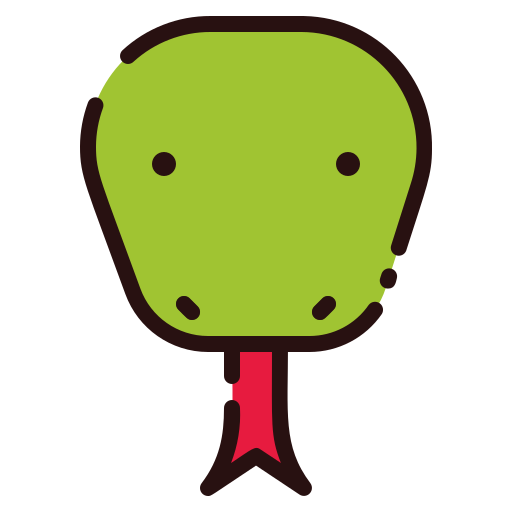
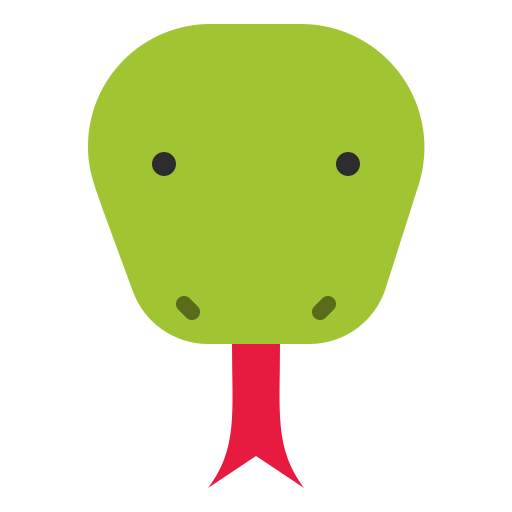
Add Body

diff --git a/index.js b/index.js
@@ -68,18 +68,21 @@ function drawHead(ctx, x, y) {
     img.onload = function() {
       ctx.drawImage(img, x * CELL_SIZE, y * CELL_SIZE, CELL_SIZE, CELL_SIZE);
     };
-    img.src = 'head.jpg';
+    img.src = 'snake.jpg';
 }
 
+function drawBody(ctx, x, y) {
+    var img = new Image();
+    img.onload = function() {
+      ctx.drawImage(img, x * CELL_SIZE, y * CELL_SIZE, CELL_SIZE, CELL_SIZE);
+    };
+    img.src = 'body.jpg';
+}
 
 function drawScore(snake) {
     let scoreCanvas;
     if (snake.color == snake1.color) {
         scoreCanvas = document.getElementById("score1Board");
-    } else if (snake.color == snake2.color) {
-        scoreCanvas = document.getElementById("score2Board");
-    } else {
-        scoreCanvas = document.getElementById("score3Board");
     }
     let scoreCtx = scoreCanvas.getContext("2d");
 
@@ -100,20 +103,10 @@ function draw() {
         for (let i = 1; i < snake1.body.length; i++) {
             drawCell(ctx, snake1.body[i].x, snake1.body[i].y, snake1.color);
         }
-        drawCell(ctx, snake2.head.x, snake2.head.y, snake2.color);
-        for (let i = 1; i < snake2.body.length; i++) {
-            drawCell(ctx, snake2.body[i].x, snake2.body[i].y, snake2.color);
-        }
-        drawCell(ctx, snake3.head.x, snake3.head.y, snake3.color);
-        for (let i = 1; i < snake3.body.length; i++) {
-            drawCell(ctx, snake3.body[i].x, snake3.body[i].y, snake3.color);
-        }
         drawApple(ctx, apple1.position.x, apple1.position.y);
         drawApple(ctx, apple2.position.x, apple2.position.y);
 
         drawScore(snake1);
-        drawScore(snake2);
-        drawScore(snake3);
     }, REDRAW_INTERVAL);
 }
 
@@ -244,32 +237,10 @@ document.addEventListener("keydown", function (event) {
     } else if (event.key === "ArrowDown") {
         turn(snake1, DIRECTION.DOWN);
     }
-
-    if (event.key === "a") {
-        turn(snake2, DIRECTION.LEFT);
-    } else if (event.key === "d") {
-        turn(snake2, DIRECTION.RIGHT);
-    } else if (event.key === "w") {
-        turn(snake2, DIRECTION.UP);
-    } else if (event.key === "s") {
-        turn(snake2, DIRECTION.DOWN);
-    }
-
-    if (event.key === "j") {
-        turn(snake3, DIRECTION.LEFT);
-    } else if (event.key === "l") {
-        turn(snake3, DIRECTION.RIGHT);
-    } else if (event.key === "i") {
-        turn(snake3, DIRECTION.UP);
-    } else if (event.key === "k") {
-        turn(snake3, DIRECTION.DOWN);
-    }
 })
 
 function initGame() {
     move(snake1);
-    move(snake2);
-    move(snake3);
 }
 
 initGame();

diff --git a/index.html b/index.html
@@ -15,17 +15,5 @@
       height="100"
       style="border: 1px solid #000000"
     ></canvas>
-    <canvas
-      id="score2Board"
-      width="100"
-      height="100"
-      style="border: 1px solid #000000"
-    ></canvas>
-    <canvas
-      id="score3Board"
-      width="100"
-      height="100"
-      style="border: 1px solid #000000"
-    ></canvas>
   </body>
 </html>
